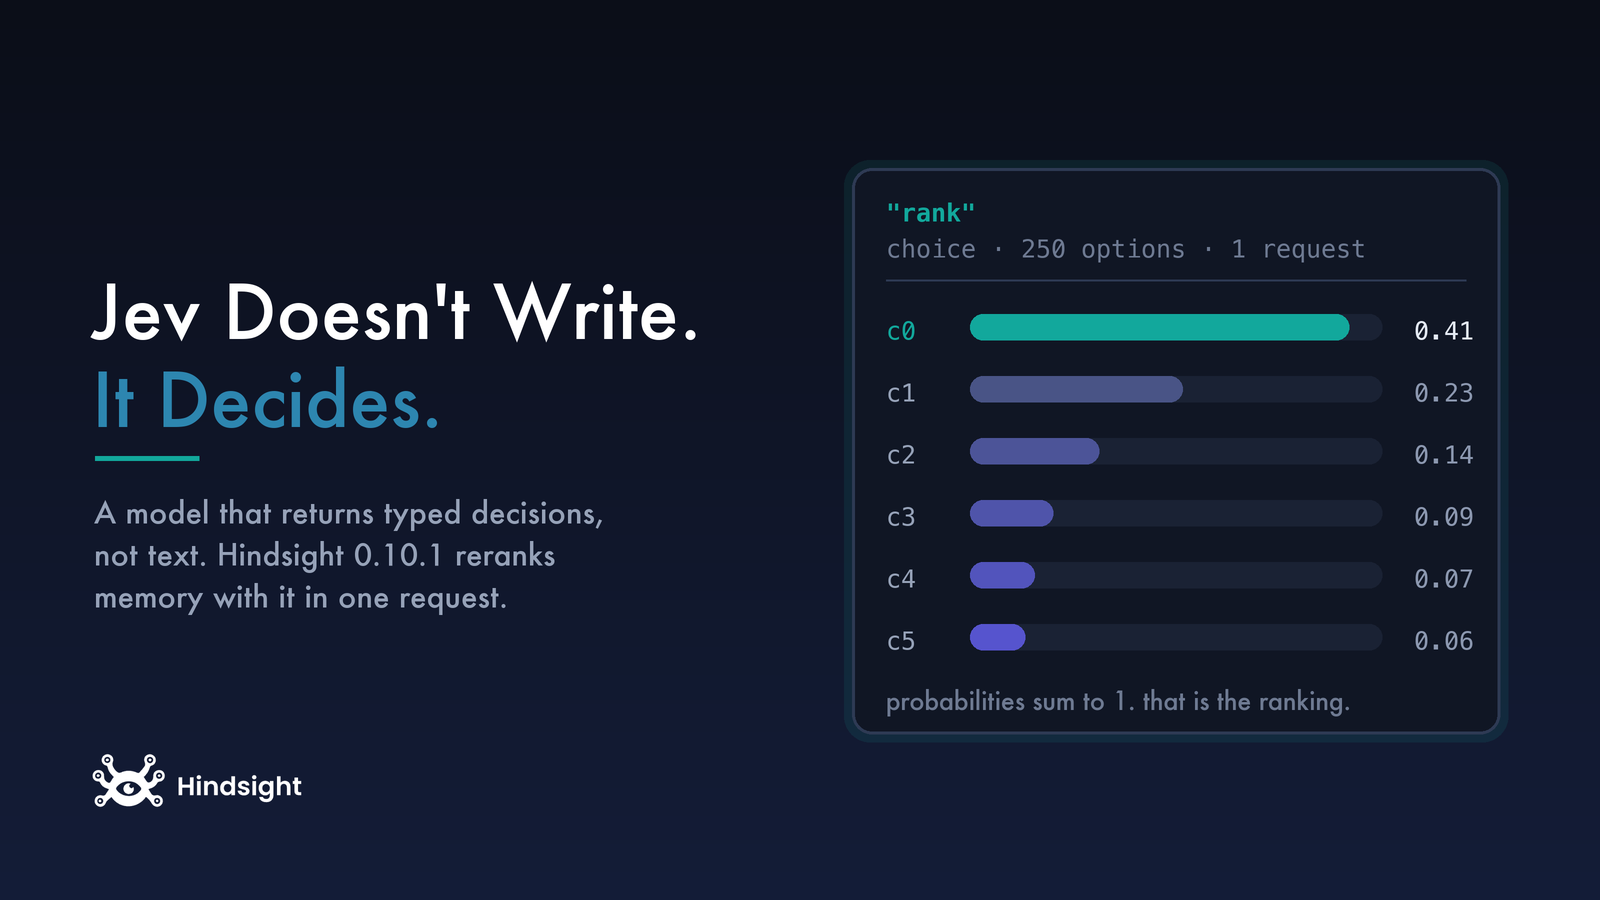
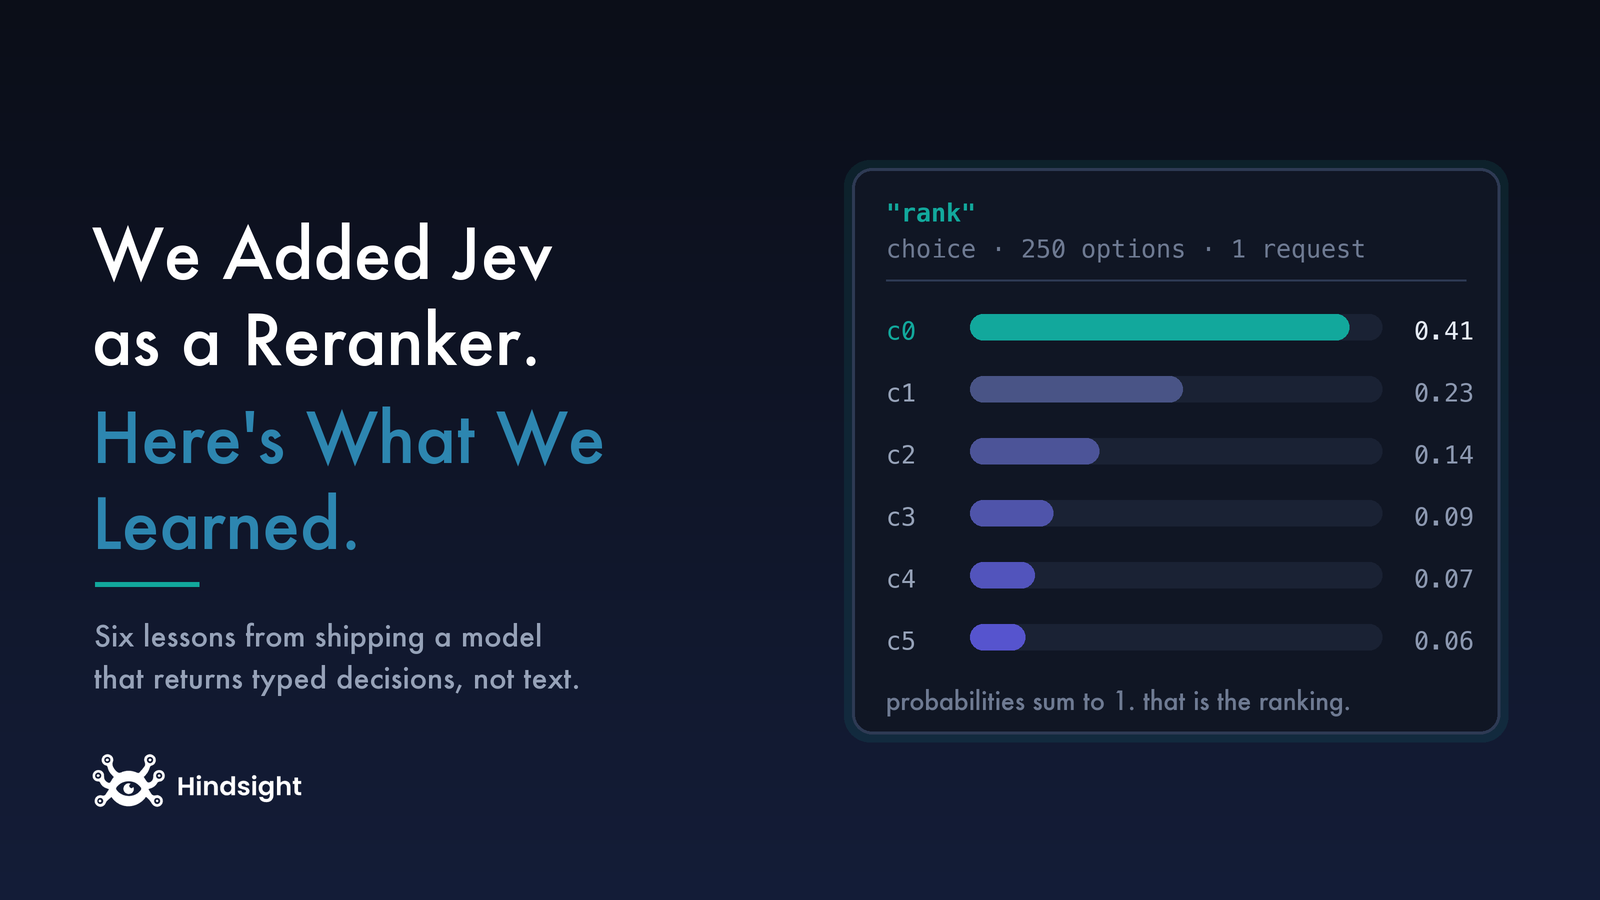
Reframe as a build log: We Added Jev as a Reranker. Here's What We Learned.

Changed region(s): [[0.0625, 0.2489, 0.4375, 0.5289], [0.0625, 0.56, 0.375, 0.7778]]

diff --git a/hindsight-docs/blog/2026-09-24-adding-jev-reranker-what-we-learned.md b/hindsight-docs/blog/2026-09-24-adding-jev-reranker-what-we-learned.md
@@ -1,0 +1,155 @@
+---
+title: "We Added Jev as a Reranker. Here's What We Learned."
+authors: [benfrank241]
+slug: "2026/09/24/adding-jev-reranker-what-we-learned"
+date: 2026-09-24T16:00
+tags: [hindsight, agent-memory, recall, reranking, jev, typesafe, retrieval, deep-dive]
+description: "Six things we learned adding Jev, a model that returns typed decisions instead of text, as a reranker in Hindsight 0.10.1. Including two designs that failed and the numbers that killed them."
+image: /img/blog/jev-reranking.png
+hide_table_of_contents: true
+---
+
+![What we learned adding Jev as a reranker in Hindsight 0.10.1](/img/blog/jev-reranking.png)
+
+Hindsight 0.10.1 adds [Jev](https://typesafe.ai) as a reranker provider. Jev is an unusual model: it produces no text at all. You send it a passage and a typed question, and you get back a typed answer with a calibrated probability. TypeSafe calls this class of thing a System One model, after Kahneman's fast, automatic kind of thinking.
+
+That shape is a good fit for reranking, which is not a writing task. There is a pile of candidate memories and a question about which ones matter, and the only thing you want back is an ordering.
+
+Getting there took longer than we expected, and two of the designs we tried failed outright. Here is what we learned.
+
+<!-- truncate -->
+
+## TL;DR
+
+- **The obvious way to use it was the wrong one.** We ask one question about the whole pool rather than one question per candidate.
+- **Two designs failed with numbers attached**, both about giving the model a way to say "nothing here."
+- **Ranking and filtering are different product decisions**, so we ship one on and one off.
+- **The scores are positions, not confidences**, which has consequences downstream.
+- **It measured well**: recall@1 0.800 to 0.950 against our default at 30 candidates, and 0.12 to 0.027 seconds per query.
+- **It is a hosted third-party API**, which disqualifies it for some deployments no matter how good the numbers are.
+
+## 1. The obvious mapping was the wrong one
+
+Jev gives you a small vocabulary of question types. Choice picks among unordered options and returns a probability for each. Score rates against ordered levels. Noul returns the probability that a yes/no proposition holds.
+
+For reranking, Noul is the natural fit: ask "is this candidate relevant to this query?" for each one and sort by the probability. It is clean, it is what the primitive looks designed for, and at Jev's prices it is affordable in a way per-candidate LLM scoring never was. It is also, as far as we can tell, the pattern TypeSafe's own reranking material suggests.
+
+We built that first, and then we stopped, because it is still pairwise. Three hundred candidates means three hundred round trips and three hundred judgements that never see each other. A cheap pairwise reranker is still a pairwise reranker.
+
+So we used Choice instead, with the entire pool as options. One request, however many candidates, and the probabilities that come back are the ranking. The design note we left in the code:
+
+> A Choice answers with a probability for every option, summing to 1, so handing it the whole pool returns the ranking in a single call. That beats scoring each candidate on its own: judged together the model only has to say which candidate beats which, instead of pinning every candidate to an absolute scale it must re-derive each time.
+
+That is the lesson, and it generalises past this model. Relative judgement is an easier task than absolute judgement. Asking "which of these is best" avoids a question that scoring forces on you every single time: what does 0.6 actually mean?
+
+We measured the two shapes against each other on the same model. On a 200-question LoCoMo set, listwise scored recall@1 0.94 against 0.87 for one call per candidate, at a thirtieth of the calls.
+
+## 2. "None of these" does not work as an option
+
+Ranking is only half of what you want. The other half is knowing where relevance stops, so you are not handing an agent three hundred memories when four were relevant.
+
+The obvious way to express that with a Choice is to add a "none of these" option. If the model picks it, nothing is relevant. It is the first thing anyone would try, and we tried it.
+
+It fails badly. Choice options are unrivalled alternatives, not points on a scale, so "none of these" is not competing with the candidates on relevance. It simply wins outright whenever the query is hard. **Thirty-five of two hundred questions came back completely empty.**
+
+The fix was to stop using the wrong primitive. The cut is a Score, whose levels are *ordered*, which is what a cut point actually needs. It sees the ranked shortlist and answers how far down relevance extends, with levels in plain language: only the first, the first two, the first three, the first five, the first ten, all of them. The model picks one, and there is no threshold for us to tune.
+
+## 3. Do not give it an escape hatch
+
+Having built the Score, we made the same mistake one level down: we added a "nothing is relevant" level to it.
+
+Same failure, smaller. It cost 7% of queries returning nothing, and dropped gold retention from 0.81 to 0.65.
+
+So there is deliberately no such level. At least one candidate always survives, and no query comes back empty. The reasoning we settled on is that recall runs on a pool retrieval has already judged plausible, so one weak memory the caller can dismiss beats silence.
+
+Twice in one feature, giving the model a clean way to answer "nothing" made it answer "nothing" far more often than the data justified. If we build another typed-decision integration, that is the thing we will look for first.
+
+## 4. Ranking and filtering are different decisions
+
+The cut works, and the precision numbers are dramatic. On the 30-candidate run it keeps 1.6 candidates out of 30 and lifts the precision of what survives from 0.051 to 0.850, a factor of seventeen.
+
+It also cuts 19% of the gold evidence. On a real bank it took 300 candidates down to 3.
+
+We went back and forth on the default and landed on off. Better ordering is something everyone wants. Dropping most of the pool is a product decision about what your agent is for. If the consumer is an LLM prompt and every irrelevant memory is wasted context, that trade is excellent. If a human is going to read the list, or your agent needs to find a needle that ranked fourteenth, it is not.
+
+One limit we should have documented earlier: **the cut only ever sees the top twelve candidates, so with pruning on, recall returns at most twelve results regardless of pool size.** The shortlist is capped at twelve and the depth is clamped to it. That is consistent with "300 down to 3," but if you expected a large pool to yield a large relevant set, it will not.
+
+## 5. Positions are not confidences
+
+The scores Jev hands back through this path are ranks, normalised into a 0 to 1 range. The top candidate is 1.0 and each next one is 1/n lower.
+
+A 0.7 therefore means "the best of these," not "relevant." Two different pools are not comparable, because each call's probabilities are normalised within that call. This is also why a pool larger than 250 is ranked in rounds and the round winners ranked against each other, rather than the rounds simply being concatenated.
+
+The practical consequence is for anyone setting an absolute score floor on recall. For this provider, that floor filters on rank position rather than on relevance, which is almost certainly not what you meant. Worth knowing before you copy a threshold across from a different reranker.
+
+## 6. What we would tell you before you switch
+
+Four things that have nothing to do with quality.
+
+**It is a hosted third-party API.** Jev runs at TypeSafe's endpoint and needs an API key. If your reason for self-hosting Hindsight is that memory contents must not leave your infrastructure, this sends candidate text to someone else's, and no benchmark makes that acceptable.
+
+**It fails closed.** A reranker that keeps erroring propagates the failure after its retry budget. Configure a fallback chain with `rrf` last so a bad day degrades to fusion order rather than failing the recall outright. That matters more once there is a network hop in the path.
+
+**It is server-level.** A bank cannot pick its own reranker, only turn reranking off. A multi-tenant deployment runs one for everybody.
+
+**Jev's context is 32,000 tokens** for the state plus the questions, and this provider does not truncate candidate text before sending. A pool of unusually long memories is something to size up rather than assume.
+
+## A thing we got right by accident
+
+Worth recording the one decision that made this cheap, because we made it for an unrelated reason.
+
+The retrieval arms move ids and scores, not payloads. Full memory text is fetched only for the candidates that survive fusion and the 300-candidate cap, and that hydration step sits immediately before reranking because the reranker is the first stage that actually reads text.
+
+We ordered it that way to keep the wide parallel arms light. The payoff arrived later: swapping in a provider that sends candidate text over the network cost us nothing extra, because by that point the set had already been narrowed and fetched exactly once.
+
+## The numbers
+
+Measured on LoCoMo, gold defined as the dataset's own evidence turns, against the reranker Hindsight ships by default.
+
+**30 candidates per query:**
+
+| | recall@1 | recall@5 | NDCG@10 | s/query |
+|---|---|---|---|---|
+| `local` MiniLM (current default) | 0.800 | 0.876 | 0.850 | 0.12 |
+| **Jev, ranking only (the default)** | **0.950** | **0.966** | **0.957** | **0.027** |
+
+**240 candidates per query, the pool size a production recall actually reranks, 60 questions:**
+
+| | recall@1 | recall@5 | NDCG@10 | s/query |
+|---|---|---|---|---|
+| `local` MiniLM | 0.583 | 0.719 | 0.682 | 0.41 |
+| **Jev, ranking only** | **0.783** | **0.903** | **0.856** | **0.063** |
+
+The gap widens with the pool, which is what you would expect when one side is making 240 sequential judgements and the other is making a single comparison.
+
+## If you cannot use it
+
+The default has not changed, and that is deliberate. `local` runs a MiniLM cross-encoder in-process, costs nothing, sends nothing anywhere, and is the 0.800 row above.
+
+Beyond it: `tei` for a self-hosted Hugging Face inference endpoint, `flashrank` for something small and local, `jina-mlx` on Apple Silicon though its licence is non-commercial, and `rrf` to skip neural reranking and keep the fusion order.
+
+None of them prune, because none of them produce a decision. They produce an ordering, and the lowest score in an ordering still means "least bad of these" rather than "not relevant." That distinction is the whole reason the cut exists here and nowhere else.
+
+## FAQ
+
+**Do I have to change anything?**
+No. Jev is opt-in through the reranker provider setting, and the default is unchanged.
+
+**Is Jev a Vectorize model?**
+No. TypeSafe is a separate company and Jev is their model. Hindsight supports it the way it supports Cohere, TEI and the rest.
+
+**Does it cost more than the local reranker?**
+The local one is free, so yes in absolute terms. But the listwise shape uses roughly a thirtieth of the calls of per-candidate scoring, and Jev charges for input only. Check TypeSafe's pricing against your recall volume.
+
+**Should I turn on pruning?**
+Only when the consumer is an LLM prompt and every irrelevant memory is wasted context, and only after trying it on your own data. The two costs are 19% of gold evidence and a ceiling of twelve results.
+
+**What happens if TypeSafe is down?**
+Without a fallback chain, the recall fails after its retries. Configure indexed fallback members with `rrf` last and it degrades to fusion order.
+
+## Learn more
+
+- [Cross-Encoder Reranking: The Last Stage of Agent Memory Recall](https://hindsight.vectorize.io/blog/2026/08/28/cross-encoder-reranking-agent-memory) on the stage itself, normalization and failing open
+- [Knowledge Graphs vs Vector Search](https://hindsight.vectorize.io/blog/2026/08/24/knowledge-graphs-vs-vector-search) on the retrieval arms that feed it
+- [Bring the Facts, Not the Beliefs](https://hindsight.vectorize.io/blog/2026/09/23/bring-facts-not-beliefs) on the deduplication reranking does not do
+- [What's new in Hindsight 0.10.1](https://hindsight.vectorize.io/blog/2026/09/21/version-0-10-1) for the rest of the release
